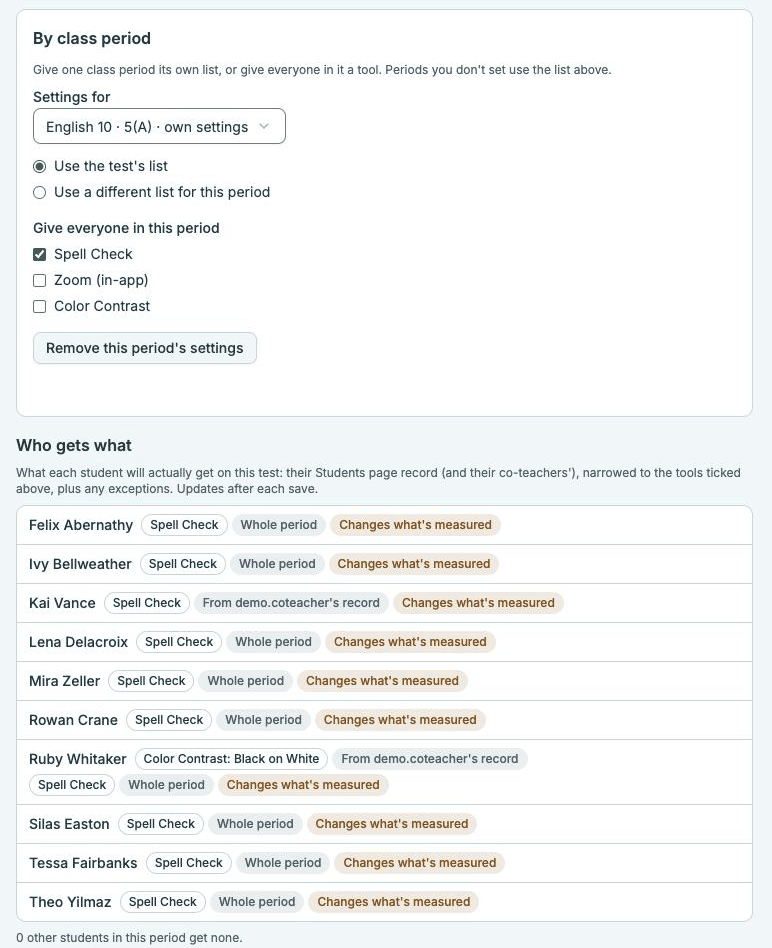
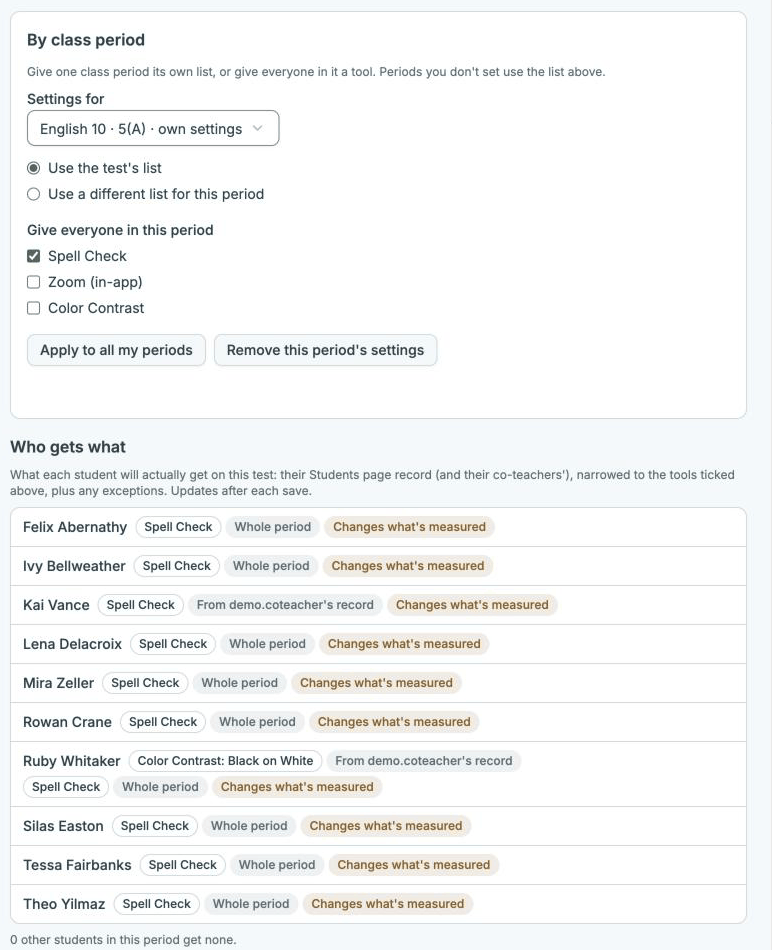
U-20 slice 3: help, quick start, roadmap page, design note, rows 486–491
Teacher-facing docs for "Apply to all my periods" and for copies keeping
period settings (slices 1–2).

- public/help.html topic 5: a bullet for Apply to all my periods (copies
  the period's list and whole-period tools; names differing periods and
  asks first); the copies bullet now says Duplicate keeps period
  settings, a Share copy keeps them for periods the colleague also
  teaches, a backup file does not. Share topic: Duplicate's line says
  period settings come along. FAQ: new "I ticked a tool on Allowed on
  this test and no student got it" (the open-beta teacher's case:
  ticking only allows), and the whole-period answer names the button.
- public/help/by-class-period.png re-captured from the _demo DB with the
  new button (built-in pane at 800 px, cropped + paletted like still.sh;
  demo names only, 163 KB).
- public/roadmap.html: 2026-10-06 journey entry "A tool for every class
  period at once".
- docs/pilot-quick-start.md: Duplicate line and the period FAQ match.
- docs/coteach-and-section-accommodations-design.md: 13.10 marked
  REVERSED (James, 2026-10-06) + §Progress entry for U-20.
- docs/roadmap-2026-09.md: U-20 DECIDED + BUILT.
- docs/design-tool-manual-checks.md rows 486–491: 486, 487, 489 ✅ and
  488 half ✅ on local _demo; 490 (Share) needs a second staff account;
  491 = row 473 with Spell Check on the origin after the deploy.

diff --git a/design-tool/public/help.html b/design-tool/public/help.html
@@ -316,10 +316,11 @@
       <ol class="steps">
         <li><b class="ui">Use a different list for this period</b> replaces the test's list for that period only. On a test assigned by the school or district a period can only narrow the list.</li>
         <li><b class="ui">Give everyone in this period</b> gives a tool to every student in it, with or without a record. A student's own setting for that tool is kept.</li>
+        <li><b class="ui">Apply to all my periods</b> copies the period you are on, its list and the tools given to everyone, to every other period you teach. If another period already has different settings, it names them and asks first.</li>
         <li>Exceptions still win: switching a tool off for one student removes it even if the period gives it.</li>
         <li><b class="ui">Who gets what</b> follows the period you pick; tools given to the whole period say <b class="ui">Whole period</b>.</li>
         <li>Which period counts: the one the test session names. A session for all your sections uses every set period the student is in.</li>
-        <li>Copies (Duplicate, Share, a backup file) keep the test's list but not the period settings, since class periods are yours.</li>
+        <li>Copies: <b class="ui">Duplicate</b> keeps the period settings. A <b class="ui">Share</b> copy keeps them only for periods your colleague also teaches. A backup file keeps the test's list but not the period settings.</li>
       </ol>
       <figure class="shot" data-src="/help/by-class-period.png" data-alt="By class period set to English 10, giving everyone Spell Check, with Who gets what listing that period's students">
         <figcaption>By class period: one period gets Spell Check for everyone.</figcaption>
@@ -457,7 +458,7 @@
           <ol class="steps">
             <li>Press <b class="ui">Share</b> and enter a colleague's school email. They get their own copy; later edits don't travel either way.</li>
             <li>For a class you teach together, use <b class="ui">Co-teach</b> in the same dialog. You both see and run the same test and its results.</li>
-            <li><b class="ui">Duplicate</b> makes your own Draft copy, for a second period's version or before a big edit. Period settings (By class period) are not copied.</li>
+            <li><b class="ui">Duplicate</b> makes your own Draft copy, for a second period's version or before a big edit. Period settings (By class period) come along.</li>
           </ol>
         </div>
         <figure class="shot" data-src="/help/share.png" data-alt="The Share dialog with Share a copy and Co-teach">
@@ -501,8 +502,10 @@
         <dd>Their time ran out, or a deadline you set with Adjust time has passed. Open <b class="ui">Adjust time</b> on their row and choose <b class="ui">No time limit</b> or a later time.</dd>
         <dt>A student's accommodation from the Students page didn't show up in the test.</dt>
         <dd>The test's <b class="ui">Allowed on this test</b> tab doesn't allow that tool. Tick it there. Students without it on their record still won't get it. <b class="ui">Who gets what</b>, under the list, shows each student's result.</dd>
+        <dt>I ticked a tool on Allowed on this test and no student got it.</dt>
+        <dd>Ticking a tool there only allows it. Students get it from their Students page record, or when their class period gives it to everyone (below). <b class="ui">Who gets what</b> shows the result before you start a session.</dd>
         <dt>A whole class period needs the same tool.</dt>
-        <dd>Open <b class="ui">By class period</b> on the <b class="ui">Allowed on this test</b> tab, pick the period and tick the tool under <b class="ui">Give everyone in this period</b>. No need to add it student by student.</dd>
+        <dd>Open <b class="ui">By class period</b> on the <b class="ui">Allowed on this test</b> tab, pick the period and tick the tool under <b class="ui">Give everyone in this period</b>. To give it to every period, press <b class="ui">Apply to all my periods</b>. No need to add it student by student.</dd>
         <dt>A row says Idle while the student is clearly writing.</dt>
         <dd>Idle means nothing has been saved for 10 minutes. View screen shows what they are doing; typed text saves every few seconds on current Macs.</dd>
         <dt>A student's session ended by itself.</dt>

diff --git a/design-tool/public/roadmap.html b/design-tool/public/roadmap.html
@@ -378,6 +378,8 @@ const JOURNEY = [
     text: "From open-beta feedback: Who gets what shows each student's tools before the test; a class period can have its own list or give everyone a tool; co-teachers' records count for the students they teach. Students see each test once, however many sessions are open." },
   { date: "2026-10-06", title: "Earlier versions of an answer",
     text: "A student emptied an essay by accident and handed it in. Written answers now keep earlier versions while students work, and a teacher can restore one from the student's results page. That morning's essay was recovered from a backup the same day." },
+  { date: "2026-10-06", title: "A tool for every class period at once",
+    text: "From open-beta feedback: Apply to all my periods copies one period's accommodation settings to every period a teacher has, and Duplicate keeps them, so Spell Check for every student is set once instead of student by student." },
 ];
 
 // Planned order. wait = what it depends on outside the team.

diff --git a/docs/roadmap-2026-09.md b/docs/roadmap-2026-09.md
@@ -131,7 +131,7 @@ those four as its cases, before any of them is built on its own.
 | U-17 | **Co-teacher accommodation records** (same report) — **SOON** **DECIDED 2026-10-05:** union the owner's and co-teachers' live rows, On wins (a per-assessment exception Off still withdraws); co-teachers = roster `Co-teacher` role AND access-grant holders; owner's Students page shows co-teachers' records read-only; one design note with U-18, after U-16. **Design note 2026-10-05:** `docs/coteach-and-section-accommodations-design.md` (open questions 13.x). Finding **F-1** there: a co-teacher's exceptions attach to their own student row, which delivery never reads. **13.1–13.11 DECIDED 2026-10-05 (all recommendations). Slice 1 BUILT 2026-10-05** (server + F-1 fix, migration 0056; not deployed). **Slice 2 BUILT 2026-10-05** (Exceptions tab lists the owner's students, "Also on X's record", preview source tag; rows 459–461 ✅ local, 462–465 open). **Deploy next (13.11), with migration 0056.** | design tool | `students` is a per-teacher overlay; delivery resolves the ASSESSMENT OWNER's row and falls back to the co-teacher's only when the owner's has NO live rows (`b7b29b4`, 2026-09-22) — a co-teacher's Students-page entry silently does nothing once the owner has any record for that student | Union both teachers' live rows (a co-teacher's Off vs the owner's On — who wins?), or one shared record per student across co-teachers of a section, or a warning on the co-teacher's Students page? Interacts with U-1 / the access model |
 | U-18 | **Accommodations by class period** (same report) — **SOON** **DECIDED 2026-10-05:** both a per-section allowed list (REPLACES the assessment-wide list for that section) and a per-section grant (below per-student exceptions — Off removes it), on the Accommodations tab with a section picker; a student in two sections resolves by the sitting's section, else the union. **Design note 2026-10-05:** `docs/coteach-and-section-accommodations-design.md` (open questions 13.x). **Slice 3 BUILT 2026-10-05** (server: migration 0057, rule + PATCH + delivery + preview `?section=`; not deployed). **Slice 4 BUILT 2026-10-05** (period picker, own list, whole-period tools, preview filter; 17.2 exceptions for period-only tools; rows 466–468 ✅ local, 469–474 open). **Deploy next (13.11), with migration 0057; then slice 5 docs.** **DEPLOYED 2026-10-05 rev 91 (Aurora 0057). Slice 5 docs BUILT. U-17 + U-18 COMPLETE** bar rows 462–464, 469–474. | design tool (+ delivery) | `allowed_accommodations` is per assessment; common assessments shared across on-level / honors / co-taught sections get one allowed list. The teacher wants per-section allowed lists, and per-section grants to save assigning a co-taught class student by student | Per-section ALLOWED list (narrow on honors) vs per-section GRANT (everyone in a period gets a tool) — likely both; where it lives (assessment Accommodations tab with a section picker vs the sitting); how it composes with Students-page records and exceptions; does U-16's preview make the grant half unnecessary? |
 | U-19 | **Answer history — earlier versions of a text answer** (beta teacher, 2026-10-06: a student emptied his essay by accident and handed in; recovered only by a manual Aurora point-in-time restore) **DECIDED 2026-10-06 (James):** keep history in the app (D-1), previous value once a minute + always before a large deletion or a clear (D-2), 30 days after hand-in (D-3), edit level (D-4), unscreened text accepted (D-5), backups stay 1 day (D-6); slice 1 capture + view, slice 2 restore + pass back. `docs/answer-history-design.md` is the record. **Slices 1 + 2 BUILT 2026-10-06** (migrations 0058 + 0059), not deployed; deploy after school (James); then the morning's essay is backfilled as one kept version for the teacher to restore. | design tool | `responses` is one row per (attempt, item), overwritten on every autosave | — (D-8: left for the teacher) |
-| U-20 | **Give a tool to every student on a test, all periods at once** (open-beta teacher, 2026-10-06: ticked Spell Check on "Allowed on this test" for a freshman test and found no student had it; asked how to turn it on for all students without adding it one by one) — not scoped, nothing built | design tool (+ delivery) | U-18's "Give everyone in this period" is per period: a teacher with five periods ticks it five times, and Duplicate / Share drop period settings, so it is redone per copy. Help topic 5 + FAQ already explain the per-period path | A test-wide "Give everyone" grant (below per-student exceptions like the period grant) vs an "apply to all my periods" button on the period picker; does a test-wide grant survive Duplicate / Share (it is not teacher-specific like periods)? |
+| U-20 | **Give a tool to every student on a test, all periods at once** (open-beta teacher, 2026-10-06: ticked Spell Check on "Allowed on this test" for a freshman test and found no student had it; asked how to turn it on for all students without adding it one by one) — **DECIDED 2026-10-06 (James):** an "Apply to all my periods" button on By class period copying the whole period (list + grants); copies keep period settings (reverses U-18's 13.10): Duplicate whole, Share only the recipient's own periods, backup file none. **BUILT 2026-10-06** (slice 1 `ed32068` button, slice 2 `1875b76` copies, slice 3 docs + rows 486–491); not deployed. Record: `docs/coteach-and-section-accommodations-design.md` §Progress. | design tool (+ delivery) | U-18's "Give everyone in this period" is per period: a teacher with five periods ticks it five times, and Duplicate / Share drop period settings, so it is redone per copy. Help topic 5 + FAQ already explain the per-period path | A test-wide "Give everyone" grant (below per-student exceptions like the period grant) vs an "apply to all my periods" button on the period picker; does a test-wide grant survive Duplicate / Share (it is not teacher-specific like periods)? |
 
 ## Findings from the 2026-09-03 sitting (James: place them in the sequence — done above; nothing built)
 

diff --git a/docs/design-tool-manual-checks.md b/docs/design-tool-manual-checks.md
@@ -1477,3 +1477,17 @@ needs the deploy (migration 0055 at boot) and the production redirect URI
 | 485 | Restore the "kept before a restore" row | The answer switches back (undo) | ✅ 2026-10-06 origin — back to "Autumn.", then the full essay restored again |
 
 After the 2026-10-06 sitting: the client quit, sitting `75CXSS` closed, the fixture `Answer history hand-run 2026-10-06` archived (its one attempt kept).
+
+## Apply to all my periods + copies keep period settings (U-20, 2026-10-06)
+
+Fixture: any test with two or more of your periods on the roster. Rows 486–489 run on local `_demo` before the commit (`Cell Structure Quiz B`, settings restored after); 490 needs a second staff account.
+
+| # | Check | Expected | Result |
+|---|---|---|---|
+| 486 | On By class period, give English 10 Spell Check; no other period set; press **Apply to all my periods** | No confirm; every period on a class list gets the same setting; "Saved" | ✅ 2026-10-06 local `_demo` (DB showed all three periods identical) |
+| 487 | Give Biology Zoom, go back to English 10, press **Apply to all my periods** | Inline confirm naming "Biology · 3(A)" only; **Replace and apply** replaces it; **Cancel** leaves it | ✅ 2026-10-06 local `_demo` (Replace path; Cancel not pressed) |
+| 488 | A period with no own settings, or a teacher with one period | No **Apply to all my periods** button | ✅ 2026-10-06 local `_demo` for a period with no own settings (AP Biology); the one-period teacher half not run (the button's rule needs another period on a class list, unit-tested) |
+| 489 | **Duplicate** a test with period settings | The copy's By class period shows the same periods "· own settings"; Who gets what on the copy shows "Whole period" | ✅ 2026-10-06 local `_demo` (9 of 10 students Whole period, the tenth from the co-teacher's record; copy deleted) |
+| 490 | **Share** a test with period settings to a colleague who co-teaches one of those periods; they Add it | Their copy keeps that period only; their other periods unset; none of the sharer's other periods listed | NOT RUN — needs a second staff account (route-tested) |
+| 491 | Row 473 with Spell Check: a period given Spell Check through **Apply to all my periods**, a real student joins that period's session on the client | Spelling squiggles in the essay; a student in a period without it gets none | NOT RUN — needs the origin after the deploy |
+

diff --git a/docs/coteach-and-section-accommodations-design.md b/docs/coteach-and-section-accommodations-design.md
@@ -174,7 +174,9 @@ class list", removable). (Question 13.9.)
 **Copies, shares, exports.** Section ids are one teacher's classes.
 `section_accommodations` is NOT carried by the teacher bundle (export /
 import), Duplicate, or Share-copy — a copy starts with the assessment-wide
-rule only. (Question 13.10.)
+rule only. (Question 13.10.) **REVERSED 2026-10-06 (James, U-20):**
+Duplicate copies them whole; a Share copy keeps only the periods the
+recipient teaches; the export bundle still carries none. See §Progress.
 
 **UI (D-7).** On the Allowed tab, above the checklist: "Settings for:
 All periods ▾ | <section> …". "All periods" is today's checklist. Picking a
@@ -315,3 +317,23 @@ once after 4.
   FAQ + Duplicate line; `/roadmap.html` journey entry for 2026-10-05.
   **U-17 + U-18 COMPLETE** bar rows 462–464 (second staff account) and
   469–474.
+
+**2026-10-06 — U-20 (`docs/roadmap-2026-09.md`), two changes on top of
+U-18.** Open-beta teacher: ticked Spell Check on "Allowed on this test"
+and no student got it; asked for one switch for all students. Decisions
+(James): an "Apply to all my periods" button rather than a test-wide grant;
+it copies the WHOLE period (list + grants); copies keep period settings
+(13.10 reversed) — Duplicate whole, Share only the recipient's own periods,
+backup file unchanged.
+- Slice 1 `ed32068`: `lib/accommodations/applyToAllPeriods.ts` (targets =
+  periods on a class list except the source; whole copy; the confirm names
+  only targets whose settings differ) + the button and inline confirm in
+  `PeriodSettings.tsx`, saved through the same autosave PATCH.
+- Slice 2 `1875b76`: Duplicate sets `section_accommodations` in its
+  post-import update; `acceptShare` keeps `keepPeriods(source, recipient's
+  sectionsCurrentlyTaughtBy)`; no migration, no bundle change.
+- Slice 3: help topic 5 (button bullet, copies bullet), Share/Duplicate
+  topic, FAQ "I ticked a tool … and no student got it" + "Apply to all my
+  periods" in the whole-period answer, re-captured `by-class-period.png`,
+  quick start; rows 486–491.
+

diff --git a/docs/pilot-quick-start.md b/docs/pilot-quick-start.md
@@ -47,8 +47,8 @@ time) and its rubric is attached.
    a session keeps going on what they had.
 4. **Share** with a colleague by staff email. They get their own copy.
 5. **Duplicate** (on the home list row, or the Settings tab) makes your own
-   Draft copy — "(copy)" — with the questions, sources, accommodations and
-   settings; results, test sessions and By class period settings are not
+   Draft copy — "(copy)" — with the questions, sources, accommodations,
+   By class period settings and settings; results and test sessions are not
    copied. Use it for a second
    period's version or before a big edit.
 6. **Instant feedback at hand-in** (Settings): Off, Score only, Right /
@@ -275,7 +275,8 @@ its own.
 - **A whole class period needs the same tool, or a different list.** On the
   **Allowed on this test** tab open **By class period**, pick the period, and
   either tick the tool under **Give everyone in this period** or choose
-  **Use a different list for this period**. Exceptions for one student still
+  **Use a different list for this period**. **Apply to all my periods** copies
+  that period's settings to every period you teach. Exceptions for one student still
   win. The session's period decides; a session for all your sections uses
   every set period the student is in.
 - **Start session says a session for this class is already open.** One with
